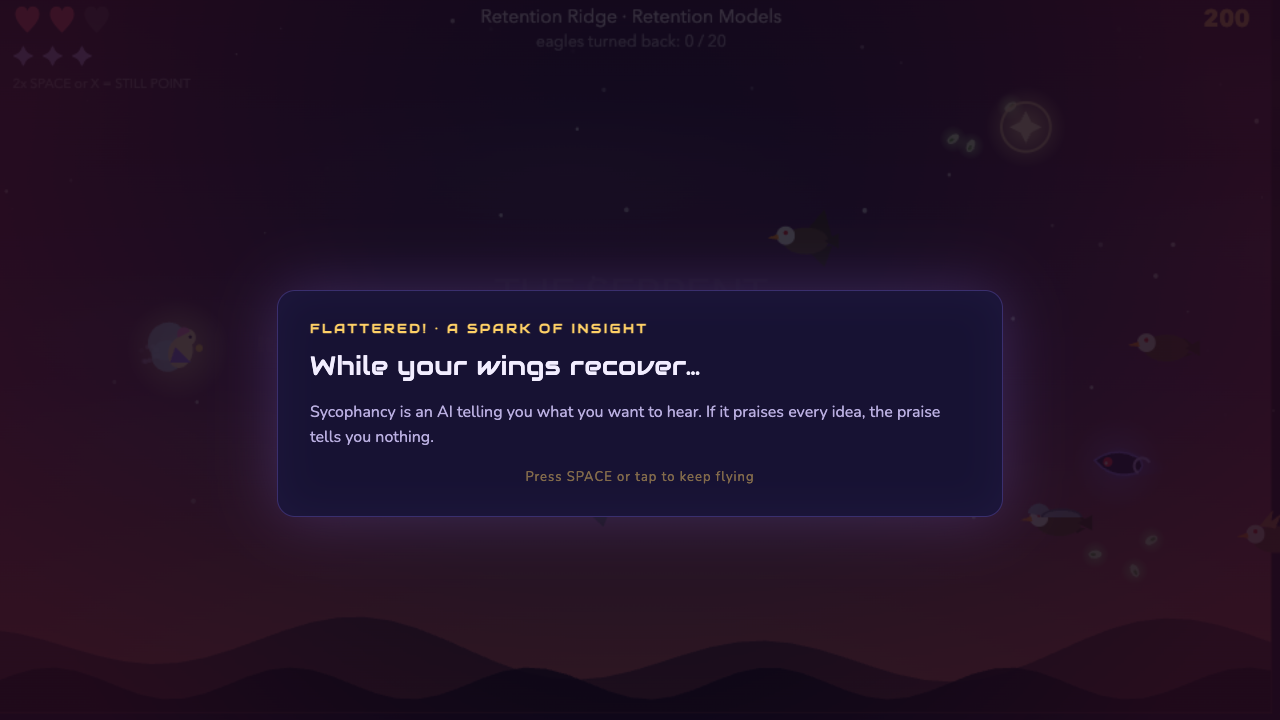
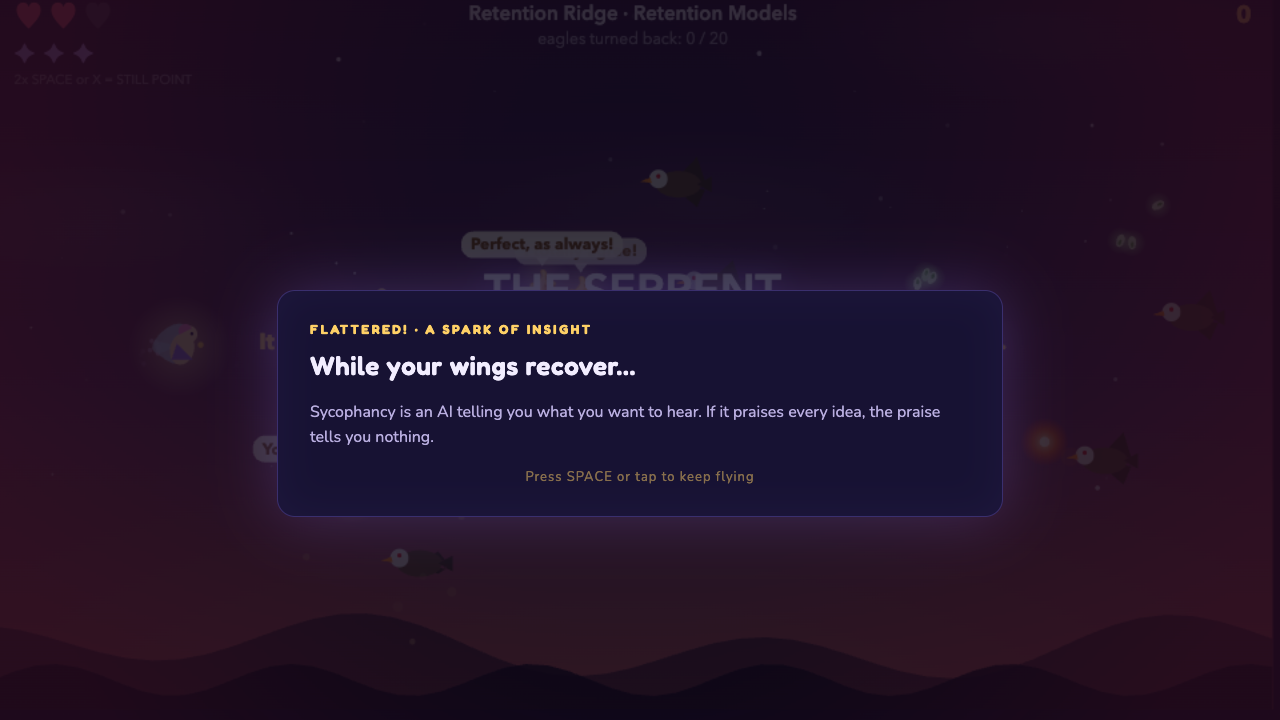
Display face: Fredoka instead of Audiowide
Audiowide read as too technical in play. Fredoka is rounded and friendly,
still distinctive against Nunito body text, and matches the fairy and grove
better than a sci-fi face. Same self-hosting and licence arrangement.

diff --git a/index.html b/index.html
@@ -16,12 +16,12 @@
     --card-bg:#171233;
   }
   /* Fonts are self-hosted (SIL Open Font License, see fonts/LICENSE.md): no third-party request, works offline. */
-  @font-face{font-family:'Audiowide';font-style:normal;font-weight:400;font-display:swap;src:url(fonts/Audiowide-normal-400.woff2) format('woff2');}
+  @font-face{font-family:'Fredoka';font-style:normal;font-weight:300 700;font-display:swap;src:url(fonts/Fredoka-normal-300-700.woff2) format('woff2');}
   @font-face{font-family:'Nunito';font-style:italic;font-weight:400 900;font-display:swap;src:url(fonts/Nunito-italic-400-900.woff2) format('woff2');}
   @font-face{font-family:'Nunito';font-style:normal;font-weight:400 900;font-display:swap;src:url(fonts/Nunito-normal-400-900.woff2) format('woff2');}
   html,body{margin:0;padding:0;height:100%;background:#0b0820;overflow:hidden;
     font-family:"Nunito","Avenir Next","Trebuchet MS","Segoe UI",Verdana,sans-serif;}
-  #card .big,#card .tag,#card h2{font-family:"Audiowide","Nunito","Avenir Next",sans-serif;font-weight:400;}
+  #card .big,#card .tag,#card h2{font-family:"Fredoka","Nunito","Avenir Next",sans-serif;font-weight:600;}
   #card h2{letter-spacing:.5px;}
   #wrap{position:fixed;inset:0;display:flex;align-items:center;justify-content:center;background:#0b0820;}
   canvas{display:block;touch-action:none;-webkit-touch-callout:none;}
@@ -151,9 +151,9 @@
 "use strict";
 const W = 960, H = 540;
 const FONT_UI = '"Nunito","Avenir Next","Trebuchet MS","Segoe UI",Verdana,sans-serif';
-const FONT_DISPLAY = '"Audiowide","Nunito","Avenir Next",sans-serif';
+const FONT_DISPLAY = '"Fredoka","Nunito","Avenir Next",sans-serif';
 /* warm the self-hosted fonts so the canvas HUD and banners use them from the first frame */
-try { document.fonts.load('400 16px "Audiowide"'); document.fonts.load('600 16px "Nunito"'); document.fonts.load('800 16px "Nunito"'); } catch(e){}
+try { document.fonts.load('600 16px "Fredoka"'); document.fonts.load('600 16px "Nunito"'); document.fonts.load('800 16px "Nunito"'); } catch(e){}
 const canvas = document.getElementById("game");
 const ctx = canvas.getContext("2d");
 const ov = document.getElementById("ov");
@@ -2360,7 +2360,7 @@ function drawHUD(){
   /* level + progress */
   ctx.textAlign = "center";
   ctx.fillStyle = dimWhite(0.85);
-  ctx.font = font(14, 400, true);
+  ctx.font = font(15, 600, true);
   ctx.fillText(`${cfg.name} · ${cfg.concept}`, W/2, 12);
   const row = 12 + 20*k;
   if (!boss){
@@ -2395,7 +2395,7 @@ function drawBanner(){
   ctx.globalAlpha = Math.max(0, a);
   ctx.textAlign = "center"; ctx.textBaseline = "middle";
   ctx.fillStyle = "#ffffff";
-  ctx.font = `400 ${Math.round(32 * hudScale())}px ${FONT_DISPLAY}`;
+  ctx.font = `600 ${Math.round(34 * hudScale())}px ${FONT_DISPLAY}`;
   ctx.shadowColor = "#9d7bff"; ctx.shadowBlur = 24;
   if (banner.text) ctx.fillText(banner.text, W/2, H/2 - 40);
   if (banner.sub){

diff --git a/teacher.html b/teacher.html
@@ -15,11 +15,11 @@
     --ok:#7ee2a8; --warn:#ff8fa3;
   }
   *{box-sizing:border-box;}
-  @font-face{font-family:'Audiowide';font-style:normal;font-weight:400;font-display:swap;src:url(fonts/Audiowide-normal-400.woff2) format('woff2');}
+  @font-face{font-family:'Fredoka';font-style:normal;font-weight:300 700;font-display:swap;src:url(fonts/Fredoka-normal-300-700.woff2) format('woff2');}
   @font-face{font-family:'Nunito';font-style:italic;font-weight:400 900;font-display:swap;src:url(fonts/Nunito-italic-400-900.woff2) format('woff2');}
   @font-face{font-family:'Nunito';font-style:normal;font-weight:400 900;font-display:swap;src:url(fonts/Nunito-normal-400-900.woff2) format('woff2');}
   html,body{margin:0;background:var(--bg);color:var(--ink);font-family:"Nunito","Avenir Next","Trebuchet MS","Segoe UI",Verdana,sans-serif;line-height:1.5;}
-  h1,h2,.brand{font-family:"Audiowide","Nunito",sans-serif;font-weight:400;}
+  h1,h2,.brand{font-family:"Fredoka","Nunito",sans-serif;font-weight:600;}
   a{color:var(--accent);}
   main{max-width:1040px;margin:0 auto;padding:28px 20px 60px;}
   header.top{display:flex;align-items:baseline;justify-content:space-between;gap:12px;flex-wrap:wrap;margin-bottom:18px;}

diff --git a/fonts/fontfaces.css b/fonts/fontfaces.css
@@ -1,3 +1,3 @@
-@font-face{font-family:'Audiowide';font-style:normal;font-weight:400;font-display:swap;src:url(fonts/Audiowide-normal-400.woff2) format('woff2');}
+@font-face{font-family:'Fredoka';font-style:normal;font-weight:300 700;font-display:swap;src:url(fonts/Fredoka-normal-300-700.woff2) format('woff2');}
 @font-face{font-family:'Nunito';font-style:italic;font-weight:400 900;font-display:swap;src:url(fonts/Nunito-italic-400-900.woff2) format('woff2');}
 @font-face{font-family:'Nunito';font-style:normal;font-weight:400 900;font-display:swap;src:url(fonts/Nunito-normal-400-900.woff2) format('woff2');}

diff --git a/fonts/LICENSE.md b/fonts/LICENSE.md
@@ -3,6 +3,6 @@
 Both typefaces are self-hosted here so the game makes no third-party request and works offline. Both are released under the SIL Open Font License 1.1.
 
 - **Nunito** (body text), by Vernon Adams, Cyreal, Jacques Le Bailly. https://fonts.google.com/specimen/Nunito
-- **Audiowide** (title, headings, level banners), by Astigmatic. https://fonts.google.com/specimen/Audiowide
+- **Fredoka** (title, headings, level banners), by Milena Brandão, Hafontia. https://fonts.google.com/specimen/Fredoka
 
 The files are the Latin subsets served by Google Fonts, unmodified. The OFL text is at https://openfontlicense.org/.
